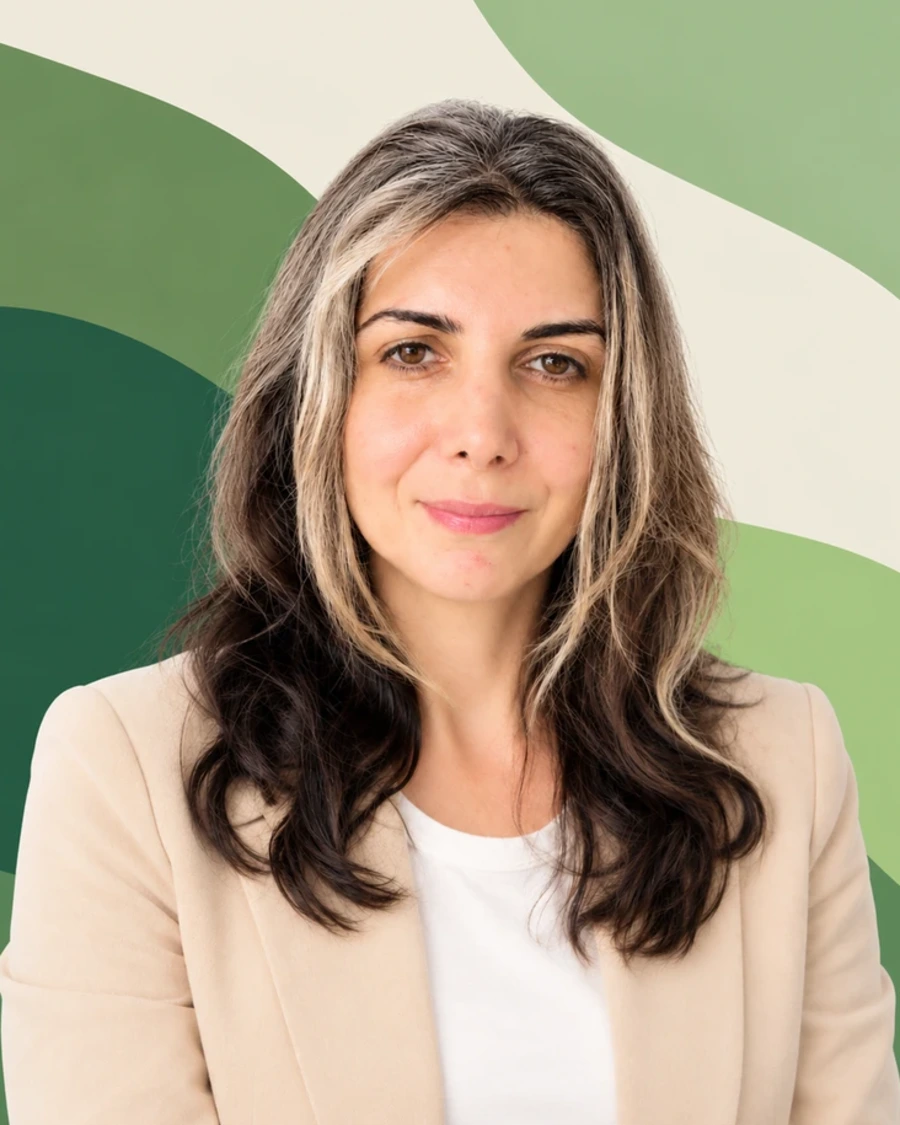
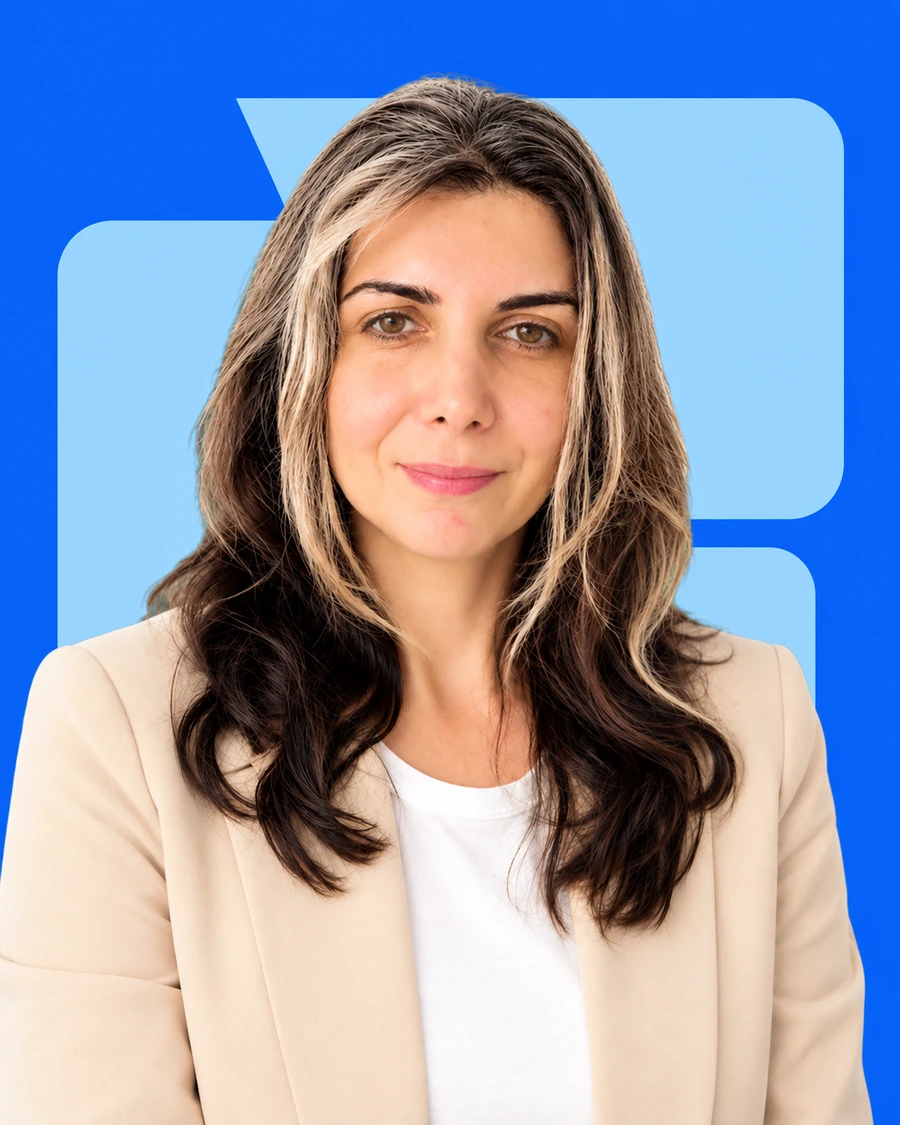
teachers: portraits on brand bubbles, 4:5 photo box, Mariam's hours
- six portraits re-cut and set on the Blue field with a Feed-colour brand
  bubble each (Yellow · Teal · Pink · Sky · Yellow · Teal), a different cut per card
- .teacher__photo keeps a 4:5 ratio at every width instead of two fixed heights,
  so the whole portrait shows from 320 to 1920
- Mariam's meta line: 100+ ժամ · Level-Up

diff --git a/tailwind.css b/tailwind.css
@@ -2245,7 +2245,7 @@ html[lang="en"] .pill-tabs__tab[data-lang-tab="en"] { background: var(--color-pr
 }
 .teacher__photo {
   position: relative;
-  height: --spacing(95);
+  aspect-ratio: 4 / 5;   /* the portraits are 900 × 1125: the box keeps their ratio at every width, so the whole picture shows (decided Oct 2026; it was a fixed height, almost square on wide screens) */
   overflow: hidden;
   border-radius: var(--radius-3xl) var(--radius-3xl) 0 0;
 }
@@ -3274,7 +3274,6 @@ html[lang="en"] [data-lang="hy"] { display: none; }   /* each piece of copy is w
   .teachers__top, .quotes__top { padding-right: --spacing(4); }
   .quote { width: 82vw; }
   .teacher { width: 78vw; }
-  .teacher__photo { height: --spacing(64); }
   .teacher__body { padding: --spacing(5) --spacing(6) --spacing(6); gap: --spacing(4.5); }
   .stats__row { grid-template-columns: minmax(0, 1fr); gap: --spacing(8); }
   .stat__num { @apply text-aqb-headline-h1; }

diff --git a/aigraget.html b/aigraget.html
@@ -1190,7 +1190,7 @@
             </div>
             <p class="teacher__bio">20+ տարվա մասնագիտական փորձ գրաֆիկ, web և product design ոլորտներում։</p>
             <p class="teacher__bio">AI էնտուզիաստ է, ազատ ժամանակ նկարում է և հող մշակում։</p>
-            <p class="teacher__meta">Level-Up</p>
+            <p class="teacher__meta">100+ ժամ · Level-Up</p>
           </div>
         </article>
 

diff --git a/ai-grager.html b/ai-grager.html
@@ -576,7 +576,7 @@
             </div>
             <p class="teacher__bio">20+ տարվա մասնագիտական փորձ գրաֆիկ, web և product design ոլորտներում։</p>
             <p class="teacher__bio">AI էնտուզիաստ է, ազատ ժամանակ նկարում է և հող մշակում։</p>
-            <p class="teacher__meta">Level-Up</p>
+            <p class="teacher__meta">100+ ժամ · Level-Up</p>
           </div>
         </article>
 

diff --git a/index.html b/index.html
@@ -998,7 +998,7 @@
             </div>
             <p class="teacher__bio">20+ տարվա մասնագիտական փորձ գրաֆիկ, web և product design ոլորտներում։</p>
             <p class="teacher__bio">AI էնտուզիաստ է, ազատ ժամանակ նկարում է և հող մշակում։</p>
-            <p class="teacher__meta">Level-Up</p>
+            <p class="teacher__meta">100+ ժամ · Level-Up</p>
           </div>
         </article>
 

diff --git a/styles.css b/styles.css
@@ -5545,7 +5545,7 @@
   }
 
   .teacher__photo {
-    height: calc(var(--spacing) * 95);
+    aspect-ratio: 4 / 5;
     border-radius: var(--radius-3xl) var(--radius-3xl) 0 0;
     position: relative;
     overflow: hidden;
@@ -8379,10 +8379,6 @@
 
     .teacher {
       width: 78vw;
-    }
-
-    .teacher__photo {
-      height: calc(var(--spacing) * 64);
     }
 
     .teacher__body {
